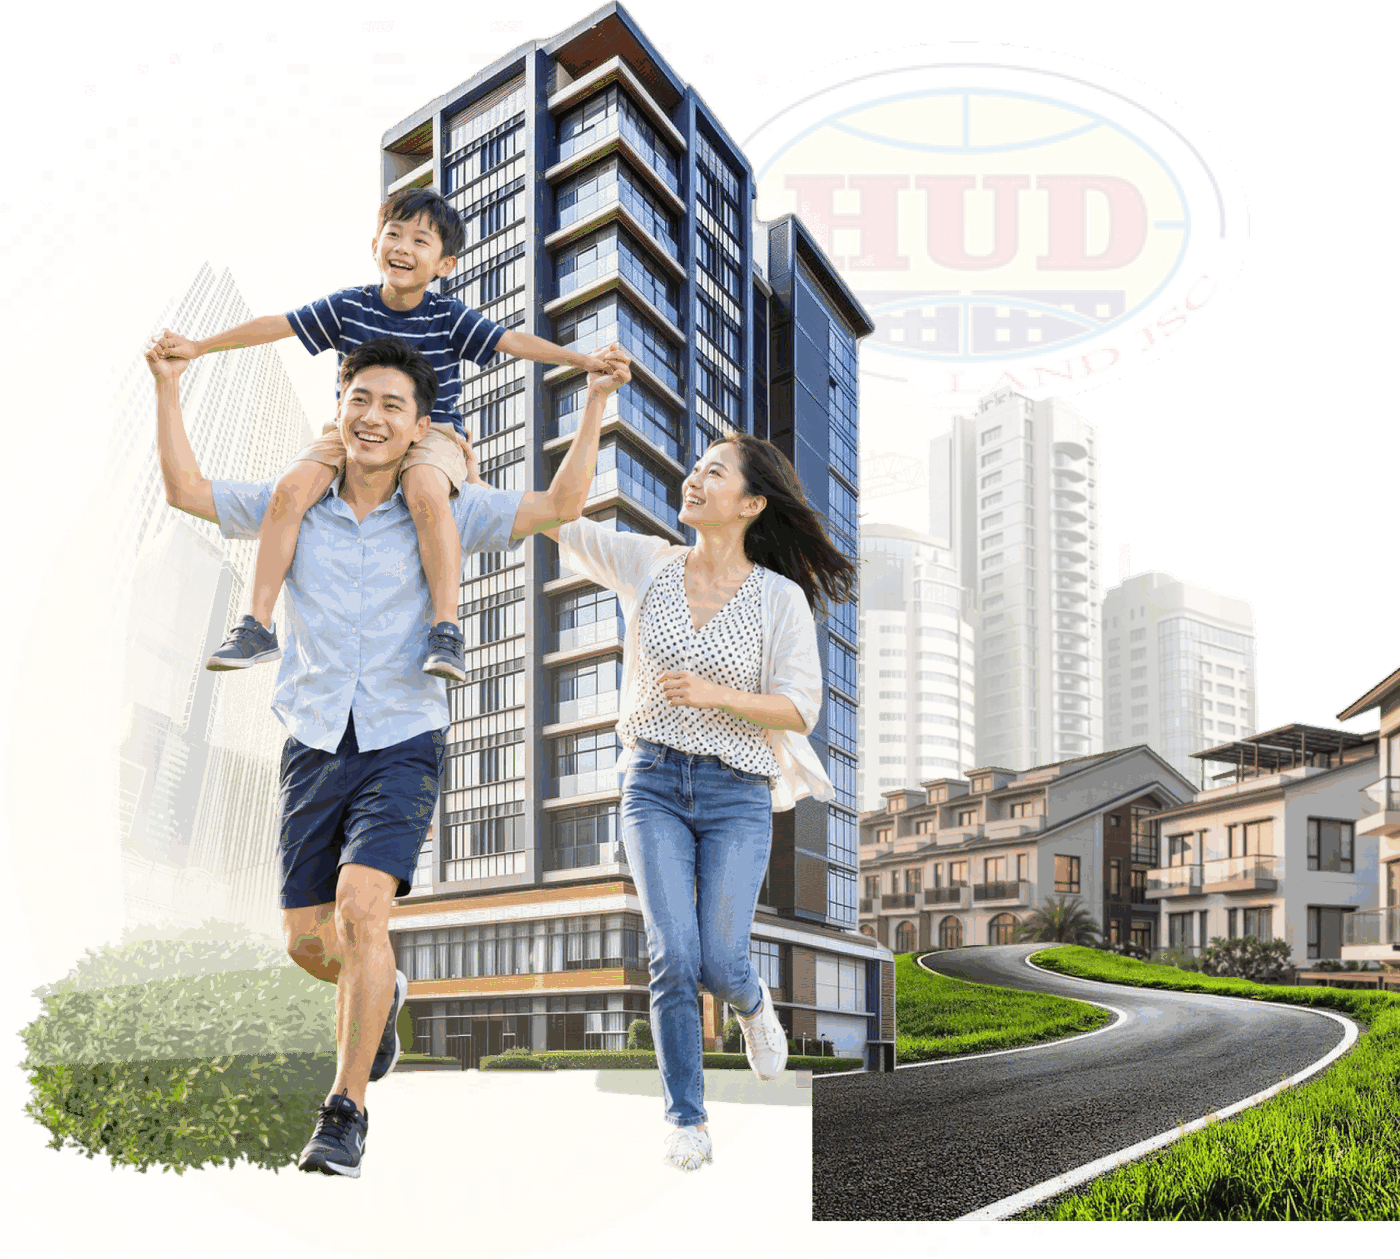
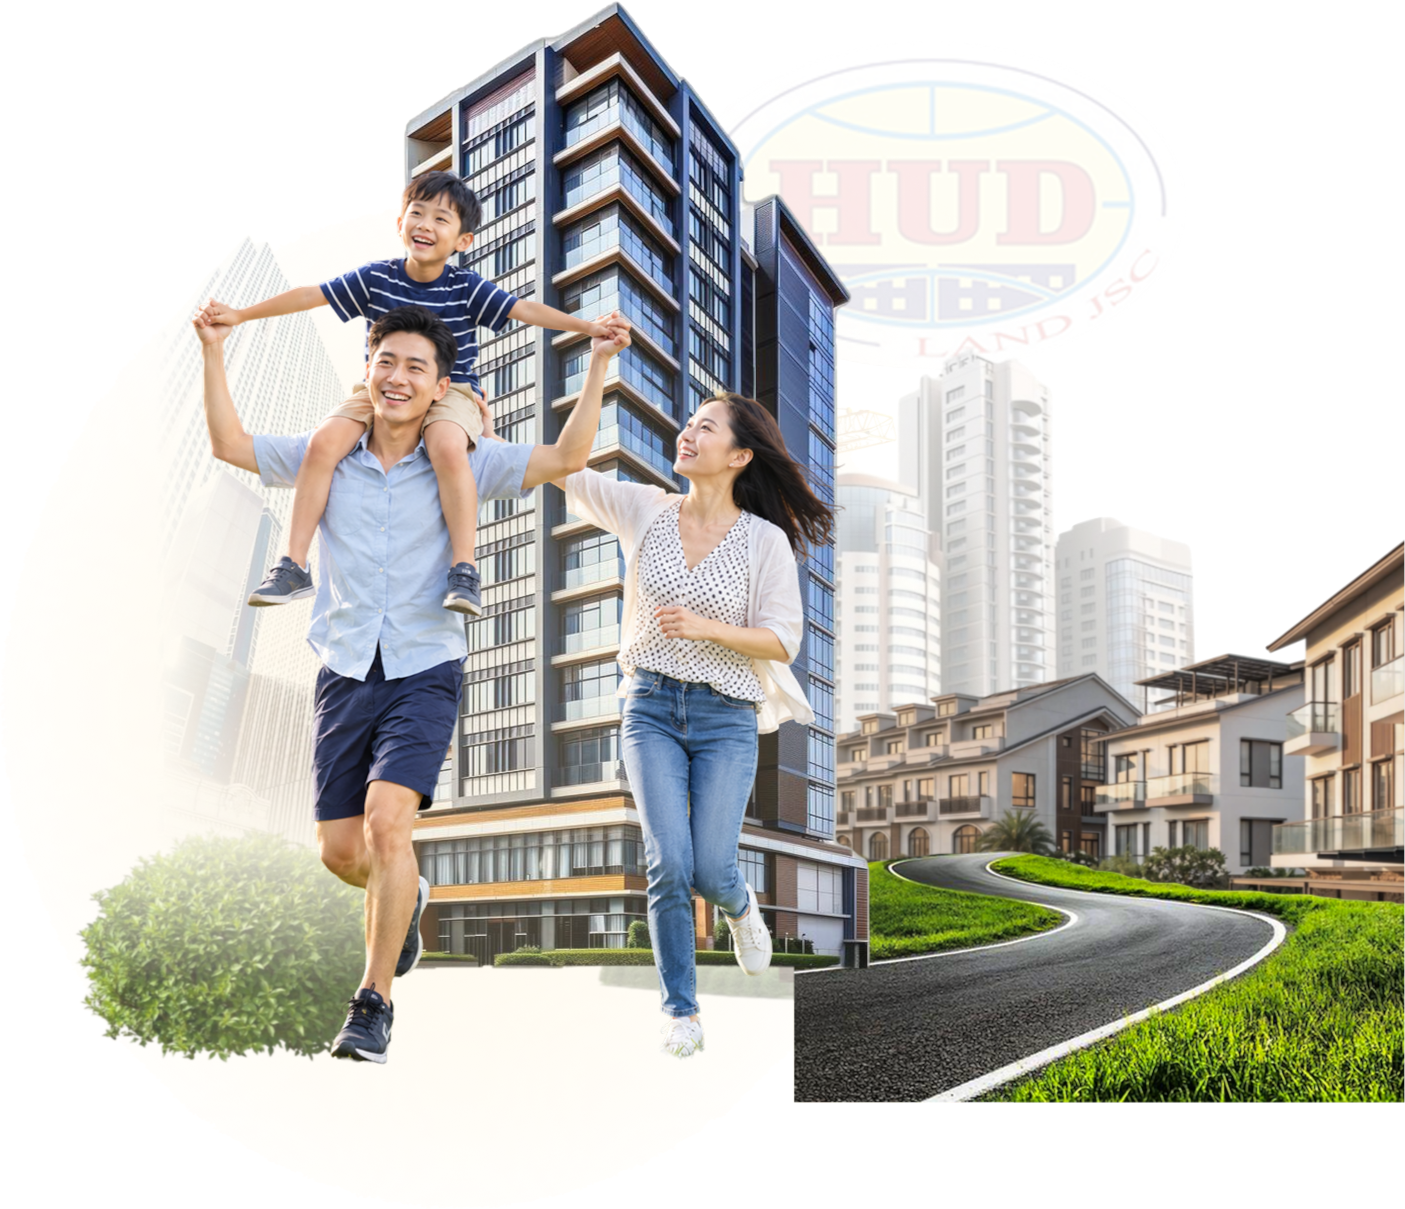
css

diff --git a/style/style.css b/style/style.css
@@ -8487,7 +8487,7 @@ button:focus {
 
 @media (max-width: 575.98px) {
     .projects-bg__img {
-        height: 100%;
+        height: 500px;
         object-fit: cover;
     }
 
@@ -8850,6 +8850,10 @@ button:focus {
     .projects-meta__value {
         font-size: 10px;
         line-height: 18px;
+        display: -webkit-box;
+        -webkit-line-clamp: 1;
+        -webkit-box-orient: vertical;
+        overflow: hidden;
     }
 
     .projects-divider {
